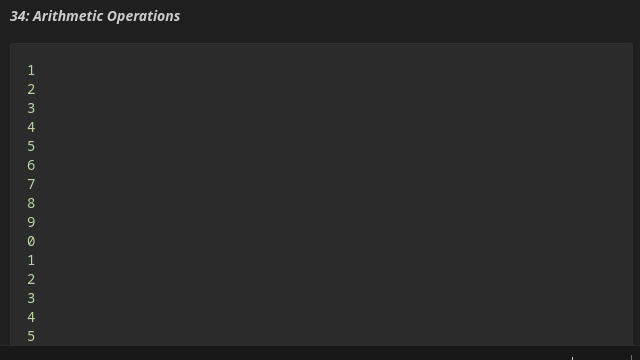
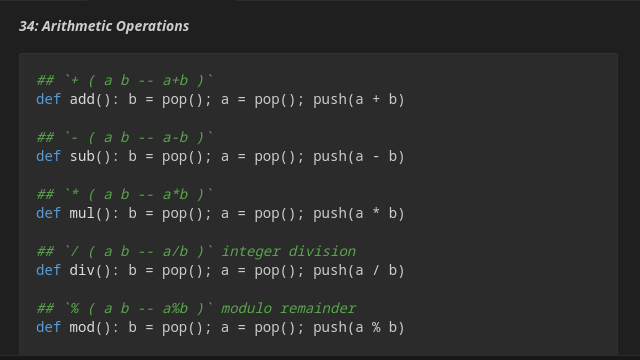
.

diff --git a/lib/FORTH.py b/lib/FORTH.py
@@ -77,7 +77,7 @@ def mul(): b = pop(); a = pop(); push(a * b)
 ## `/ ( a b -- a/b )` integer division
 def div(): b = pop(); a = pop(); push(a / b)
 
-## `% ( a b -- a%b )`
+## `% ( a b -- a%b )` modulo remainder
 def mod(): b = pop(); a = pop(); push(a % b)
 
 ## `^ ( a b -- a^b )`

diff --git a/doc/slide/slide.py b/doc/slide/slide.py
@@ -65,8 +65,8 @@ grab('33', 710, 75)
 single('33')
 
 # mas
-grab('30', x=1235, y=380)
-single('29')
+grab('34', x=1235, y=380)
+single('34')
 
 # with open('tmp/slide/fragments.list', 'w') as list:
 #     with open('tmp/slide/m3u.m3u', 'w') as m3u:

diff --git a/doc/slide/34.md b/doc/slide/34.md
@@ -1,23 +1,30 @@
 ***34: Arithmetic Operations***
 
 ```py
-1
-2
-3
-4
-5
-6
-7
-8
-9
-0
-1
-2
-3
-4
-5
-6
+## `+ ( a b -- a+b )`
+def add(): b = pop(); a = pop(); push(a + b)
+
+## `- ( a b -- a-b )`
+def sub(): b = pop(); a = pop(); push(a - b)
+
+## `* ( a b -- a*b )`
+def mul(): b = pop(); a = pop(); push(a * b)
+
+## `/ ( a b -- a/b )` integer division
+def div(): b = pop(); a = pop(); push(a / b)
+
+## `% ( a b -- a%b )` modulo remainder
+def mod(): b = pop(); a = pop(); push(a % b)
 ```
 
 ## subtitles
 ### ru
+
+Арифметические операции в Форте работают в постфиксной нотации и используют стек
+для передачи параметров. Каждая операция берёт два верхних элемента со стека,
+выполняет вычисление и помещает результат обратно на стек.
+
+Порядок операндов соответствует математической записи в стековой нотации: левый
+операнд лежит под вершиной, правый на вершине.
+
+Деление целочисленное с отсечением
